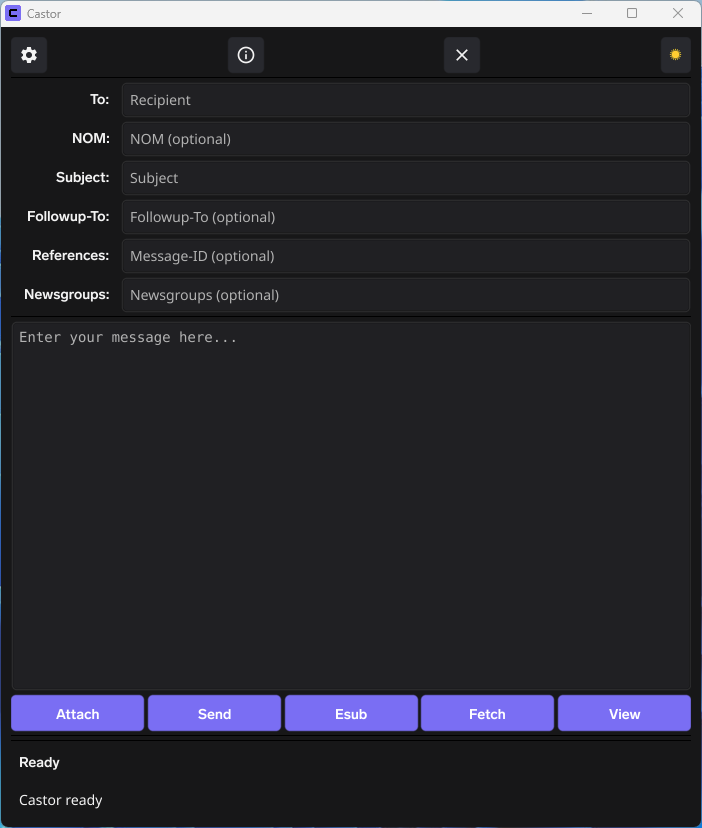
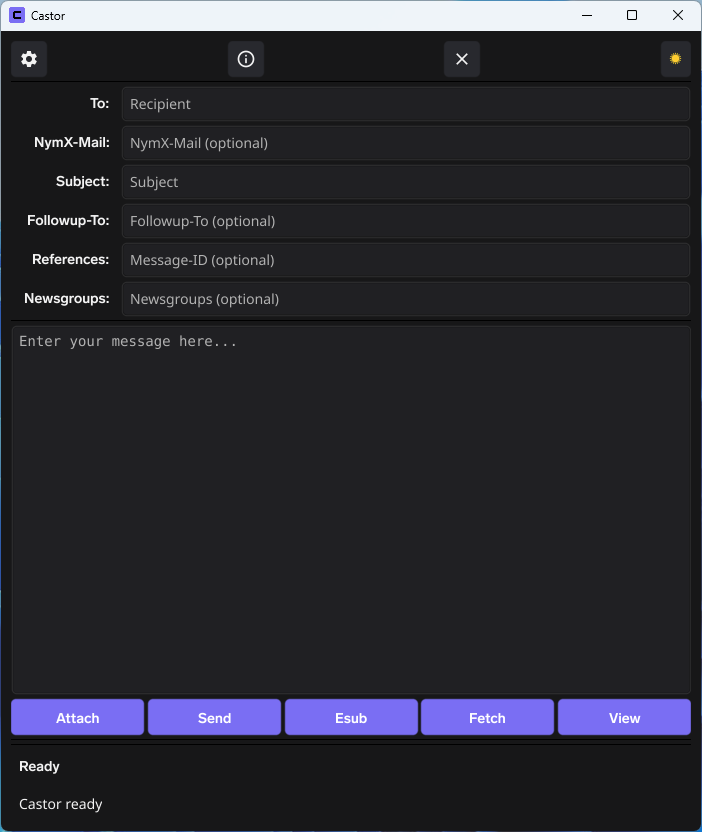
Add files via upload

diff --git a/Castor.go b/Castor.go
@@ -108,7 +108,7 @@ type UnifiedConfig struct {
     CastorURL        string     `json:"Castor_url"`
     LocalArticleDir  string     `json:"local_article_dir"`
     NNTPConfig       NNTPConfig `json:"nntp_config"`
-    SavedNymXEmail    string     `json:"saved_nymx_email"`
+    SavedNymXEmail   string     `json:"saved_nymx_email"`
 }
 
 type NNTPConfig struct {
@@ -414,7 +414,7 @@ func (n *Castor) buildMessage(bodyText string) string {
     message.WriteString("To: " + strings.TrimSpace(n.toEntry.Text) + "\n")
 
     if nymx := n.getNymXHeaderForMessage(); nymx != "" {
-        message.WriteString("NOM: " + nymx + "\n")
+        message.WriteString("NymX-Mail: " + nymx + "\n")
     }
     if subject := strings.TrimSpace(n.subjectEntry.Text); subject != "" {
         encodedSubject := encodeMIMESubject(subject)
@@ -669,7 +669,7 @@ func (n *Castor) buildCompleteMIMEMessage(plainText string, attachment *Attachme
     message.WriteString("To: " + strings.TrimSpace(n.toEntry.Text) + "\n")
 
     if nymx := n.getNymXHeaderForMessage(); nymx != "" {
-        message.WriteString("NOM: " + nymx + "\n")
+        message.WriteString("NymX-Mail: " + nymx + "\n")
     }
     if subject := strings.TrimSpace(n.subjectEntry.Text); subject != "" {
         encodedSubject := encodeMIMESubject(subject)
@@ -1130,7 +1130,7 @@ func (n *Castor) showInfoPopup() {
     })
     okButton.Importance = widget.HighImportance
     content := container.NewVBox(
-        widget.NewLabelWithStyle("Castor v0.1.0", fyne.TextAlignCenter, fyne.TextStyle{Bold: true}),
+        widget.NewLabelWithStyle("Castor v0.1.1", fyne.TextAlignCenter, fyne.TextStyle{Bold: true}),
         widget.NewSeparator(),
         container.NewHBox(layout.NewSpacer(), projectLink, layout.NewSpacer()),
         widget.NewLabelWithStyle("released under the Apache 2.0 license", fyne.TextAlignCenter, fyne.TextStyle{}),
@@ -1205,7 +1205,7 @@ func (n *Castor) loadSavedNymXEmail() {
 func (n *Castor) saveNymXEmail(email string) {
     n.unifiedConfig.SavedNymXEmail = email
     if err := n.saveUnifiedConfig(); err != nil {
-        n.updateStatus("Error", fmt.Sprintf("Failed to save NOM: %v", err))
+        n.updateStatus("Error", fmt.Sprintf("Failed to save NymX-Mail: %v", err))
     }
 }
 
@@ -1221,7 +1221,7 @@ func (n *Castor) handleNymXEntryChange() {
                 if currentValue != "" && isValidEmail(currentValue) {
                     n.saveNymXEmail(currentValue)
                 } else if currentValue == "" {
-                    n.updateStatus("NOM", "No NOM header for this message")
+                    n.updateStatus("NymX-Mail", "No NymX-Mail header for this message")
                 }
             }
         }
@@ -1229,7 +1229,7 @@ func (n *Castor) handleNymXEntryChange() {
 }
 
 func (n *Castor) getMaxLabelWidth() float32 {
-    labels := []string{"To:", "NOM:", "Subject:", "Followup-To:", "References:", "Newsgroups:"}
+    labels := []string{"To:", "NymX-Mail:", "Subject:", "Followup-To:", "References:", "Newsgroups:"}
     var maxWidth float32 = 0
     for _, labelText := range labels {
         tmpLabel := widget.NewLabel(labelText)
@@ -1727,7 +1727,7 @@ func (n *Castor) showUnifiedConfig() {
     newsgroupEntry.SetText(n.unifiedConfig.NNTPConfig.Newsgroup)
     savedNymXEntry := widget.NewEntry()
     savedNymXEntry.SetText(n.unifiedConfig.SavedNymXEmail)
-    savedNymXEntry.PlaceHolder = "Optional NOM address"
+    savedNymXEntry.PlaceHolder = "Optional NymX-Mail address"
 
     resetCacheBtn := widget.NewButton("Reset Esub Cache", func() {
         dialog.ShowConfirm("Reset Cache", "Delete all cached esubs?", func(confirmed bool) {
@@ -1750,7 +1750,7 @@ func (n *Castor) showUnifiedConfig() {
         {Text: "NNTP Port", Widget: nntpPortEntry},
         {Text: "Newsgroup", Widget: newsgroupEntry},
         {Text: "", Widget: widget.NewSeparator()},
-        {Text: "Saved NOM", Widget: savedNymXEntry},
+        {Text: "NymX-Mail", Widget: savedNymXEntry},
         {Text: "", Widget: resetCacheBtn},
     }
 
@@ -1842,7 +1842,7 @@ func (n *Castor) setupResponsiveUI() fyne.CanvasObject {
     toEntry := NewFocusAwareEntry()
     toEntry.PlaceHolder = "Recipient"
     nymxEntry := NewFocusAwareEntry()
-    nymxEntry.PlaceHolder = "NOM (optional)"
+    nymxEntry.PlaceHolder = "NymX-Mail (optional)"
     subjectEntry := NewFocusAwareEntry()
     subjectEntry.PlaceHolder = "Subject"
     followupToEntry := NewFocusAwareEntry()
@@ -1899,7 +1899,7 @@ func (n *Castor) setupResponsiveUI() fyne.CanvasObject {
         topBar,
         widget.NewSeparator(),
         n.createCompactField("To", toEntry),
-        n.createCompactField("NOM", nymxEntry),
+        n.createCompactField("NymX-Mail", nymxEntry),
         n.createCompactField("Subject", subjectEntry),
         n.createCompactField("Followup-To", followupToEntry),
         n.createCompactField("References", referencesEntry),
